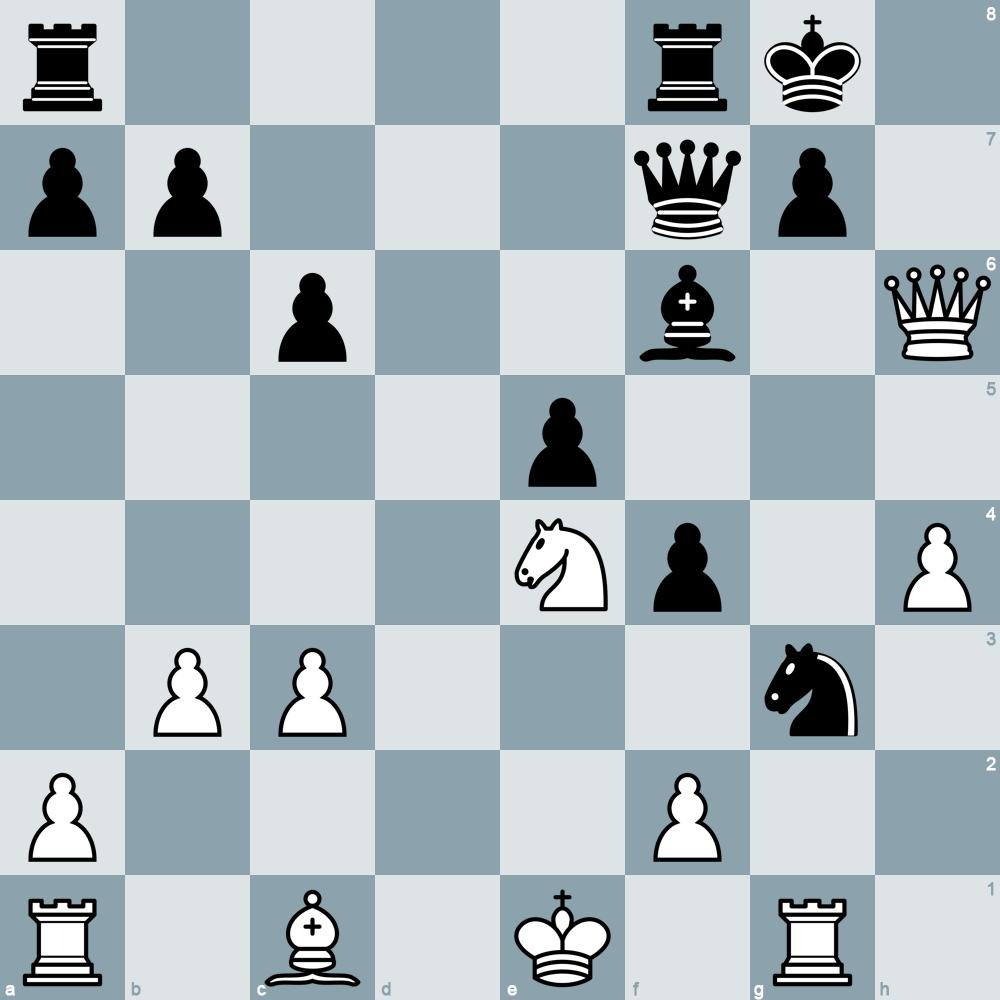
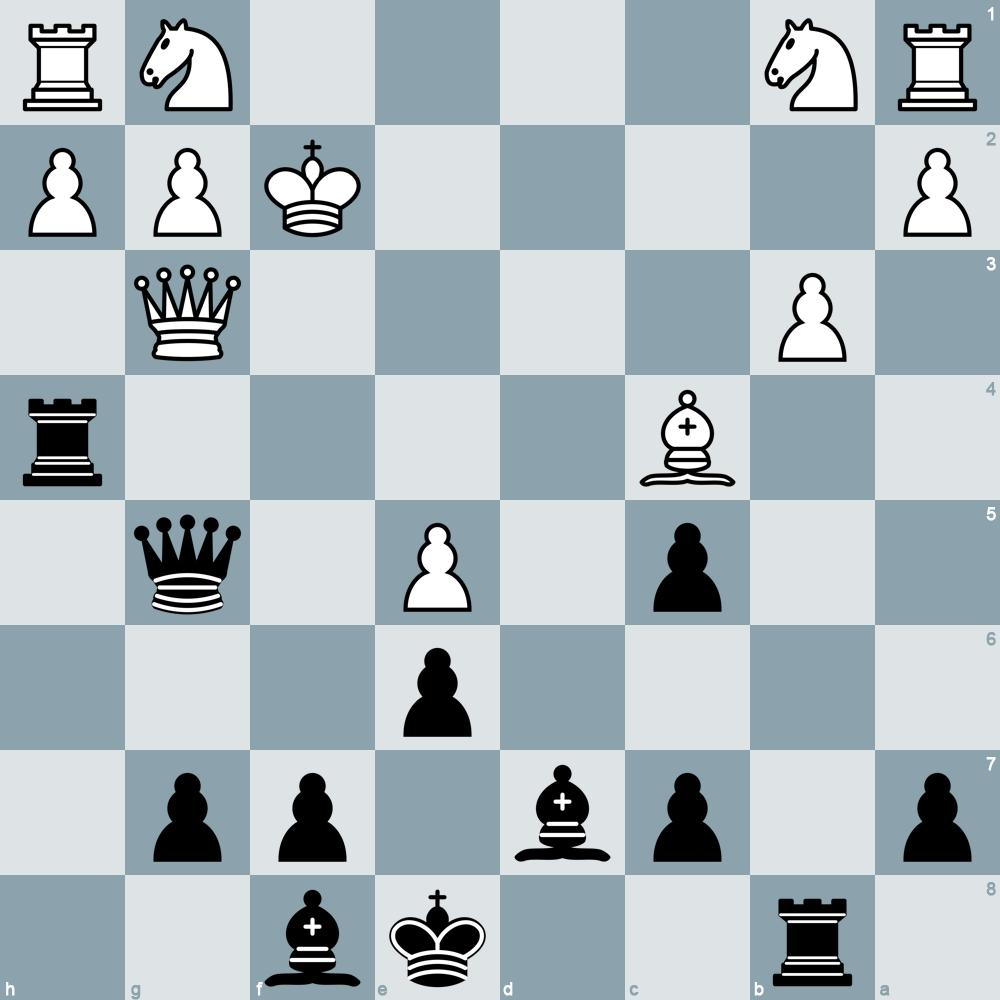
Began implementing difficulty in puzzle_gen, not yet ported to automate.py Added try/except block to automate.py which will attempt to relogin and post again if post fails.

diff --git a/puzzle_gen.py b/puzzle_gen.py
@@ -11,8 +11,15 @@ import chess
 # Loading the puzzles from the database and choosing one and random
 ########################################################################################################################
 puzzles = []
-PUZZLES_LEN = 3000000  # Number of puzzles to choose from
+PUZZLES_LEN = 1000000  # Number of puzzles to choose from
 filename = "lichess_db_puzzle.csv"
+
+difficulties = {
+    "easy": (1900, 1999),
+    "medium": (2000, 2299),
+    "hard": (2300, 2499),
+    "grandmaster": (2500, 3000)
+}
 
 with open(filename, 'r') as data:
     print("loading puzzles")
@@ -22,52 +29,64 @@ with open(filename, 'r') as data:
         puzzles.append(line)
     print(PUZZLES_LEN, "puzzles loaded")
 
-randNum = random.randint(0, PUZZLES_LEN - 1)
-randPuzzle = puzzles[randNum]
-fen = randPuzzle[1]
-print(randPuzzle)
-board = chess.Board(fen)
-next_move = randPuzzle[2][0:4]
-board.push_uci(next_move)
-fen = board.fen()  # Updating fen to account for the blunder
-whites_move = 'w' in fen
+for difficulty in difficulties:
+    range = difficulties[difficulty]
+    randNum = random.randint(0, PUZZLES_LEN - 1)
+    randPuzzle = puzzles[randNum]
+    rating = int(randPuzzle[3])
+    popularity = int(randPuzzle[5])
+    plays = int(randPuzzle[6])
+    # Keep trying random puzzles until we find one within the rating range
+    while rating < range[0] or rating > range[1] or popularity < 80 or plays < 1000:
+        randNum = random.randint(0, PUZZLES_LEN - 1)
+        randPuzzle = puzzles[randNum]
+        popularity = int(randPuzzle[5])
+        rating = int(randPuzzle[3])
+        plays = int(randPuzzle[6])
+    fen = randPuzzle[1]
+    print(randPuzzle)
+    board = chess.Board(fen)
+    next_move = randPuzzle[2][0:4]
+    board.push_uci(next_move)
+    fen = board.fen()  # Updating fen to account for the blunder
+    whites_move = 'w' in fen
 
-####################################################################################################################
-# Creating the board image
-####################################################################################################################
-img_size = 1000  # resolution of the image
-board_img = Image.open("Boards/chess_board_white_perspective.png").convert("RGBA")
-if not whites_move:
-    board_img = Image.open("Boards/chess_board_black_perspective.png").convert("RGBA")
-piece_image = Image.open("Images/blackKing.png").convert("RGBA")
-square_size = img_size // 8
-border_size = 5
-piece_size = square_size - 2 * border_size
-piece_image = piece_image.resize((square_size, square_size))
+    ####################################################################################################################
+    # Creating the board image
+    ####################################################################################################################
+    img_size = 1000  # resolution of the image
+    board_img = Image.open("Boards/chess_board_white_perspective.png").convert("RGBA")
+    if not whites_move:
+        board_img = Image.open("Boards/chess_board_black_perspective.png").convert("RGBA")
+    piece_image = Image.open("Images/blackKing.png").convert("RGBA")
+    square_size = img_size // 8
+    border_size = 5
+    piece_size = square_size - 2 * border_size
+    piece_image = piece_image.resize((square_size, square_size))
 
-images = {
-    'p': "Images/blackPawn.png", 'r': "Images/blackRook.png", 'k': "Images/blackKing.png",
-    'q': "Images/blackQueen.png", 'b': "Images/blackBishop.png", 'n': "Images/blackKnight.png",
-    'P': "Images/whitePawn.png", 'R': "Images/whiteRook.png", 'K': "Images/whiteKing.png",
-    'Q': "Images/whiteQueen.png", 'B': "Images/whiteBishop.png", 'N': "Images/whiteKnight.png"
-}
+    images = {
+        'p': "Images/blackPawn.png", 'r': "Images/blackRook.png", 'k': "Images/blackKing.png",
+        'q': "Images/blackQueen.png", 'b': "Images/blackBishop.png", 'n': "Images/blackKnight.png",
+        'P': "Images/whitePawn.png", 'R': "Images/whiteRook.png", 'K': "Images/whiteKing.png",
+        'Q': "Images/whiteQueen.png", 'B': "Images/whiteBishop.png", 'N': "Images/whiteKnight.png"
+    }
 
-cur_x = cur_y = 0
-for char in fen:
-    if char in images.keys():
-        piece_img = Image.open(images[char]).convert("RGBA").resize((square_size, square_size))
-        piece_pos = (square_size * cur_x, square_size * cur_y)
-        if not whites_move:
-            piece_pos = (square_size * (7 - cur_x), square_size * (7 - cur_y))
-        board_img.alpha_composite(piece_img, dest=piece_pos)
-        cur_x += 1
-    elif char == '/':
-        cur_x = 0
-        cur_y += 1
-    elif char == ' ':
-        break
-    else:
-        cur_x += int(char)
+    cur_x = cur_y = 0
+    for char in fen:
+        if char in images.keys():
+            piece_img = Image.open(images[char]).convert("RGBA").resize((square_size, square_size))
+            piece_pos = (square_size * cur_x, square_size * cur_y)
+            if not whites_move:
+                piece_pos = (square_size * (7 - cur_x), square_size * (7 - cur_y))
+            board_img.alpha_composite(piece_img, dest=piece_pos)
+            cur_x += 1
+        elif char == '/':
+            cur_x = 0
+            cur_y += 1
+        elif char == ' ':
+            break
+        else:
+            cur_x += int(char)
 
-board_img = board_img.convert('RGB')
-board_img.save('insta_post.jpg')
+    board_img = board_img.convert('RGB')
+    board_img.save('insta_post.jpg')

diff --git a/automate.py b/automate.py
@@ -11,7 +11,6 @@ import time
 from instagrapi.exceptions import LoginRequired
 import logging
 
-
 DELAY = 300  # Seconds between posts
 HASHTAGS = "#Chess #ChessGame #ChessBoard #ChessPlayer #ChessMaster #ChessTournament #ChessPost #ChessMemes " \
            "#Grandmaster #ChessLife #PlayingChess #BoardGames #Puzzle #ChessTactics #ChessPuzzle #ChessPuzzles"
@@ -130,7 +129,13 @@ while True:
     if not whites_move:
         caption = 'Black to play and win!\n'
     caption += 'Comment the solution once you find it!\n\n' + HASHTAGS
-    cl.photo_upload("insta_post.jpg", caption)
+    try:
+        cl.photo_upload("insta_post.jpg", caption)
+    except:
+        cl.login(USERNAME, PASSWORD)
+        cl.dump_settings(CURR_SESSION)
+        print("SESSION FAILED, RELOGIN ATTEMPTED")
+        cl.photo_upload("insta_post.jpg", caption)
     print("Puzzle posted to instagram")
 
     time.sleep(DELAY)
